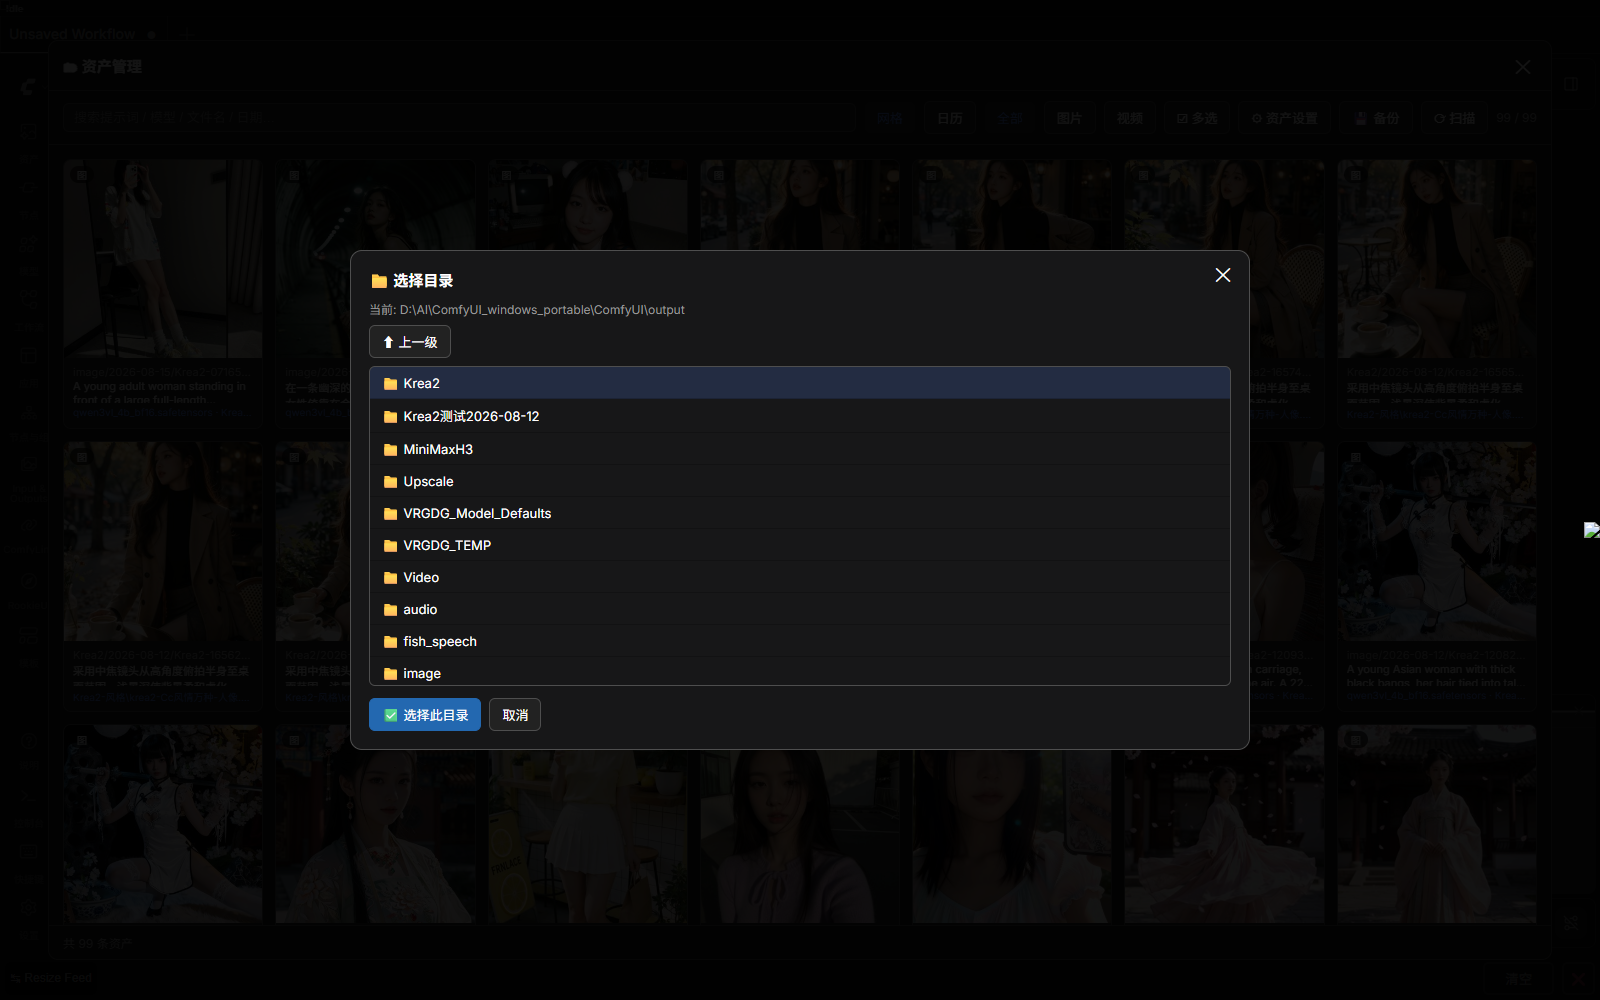
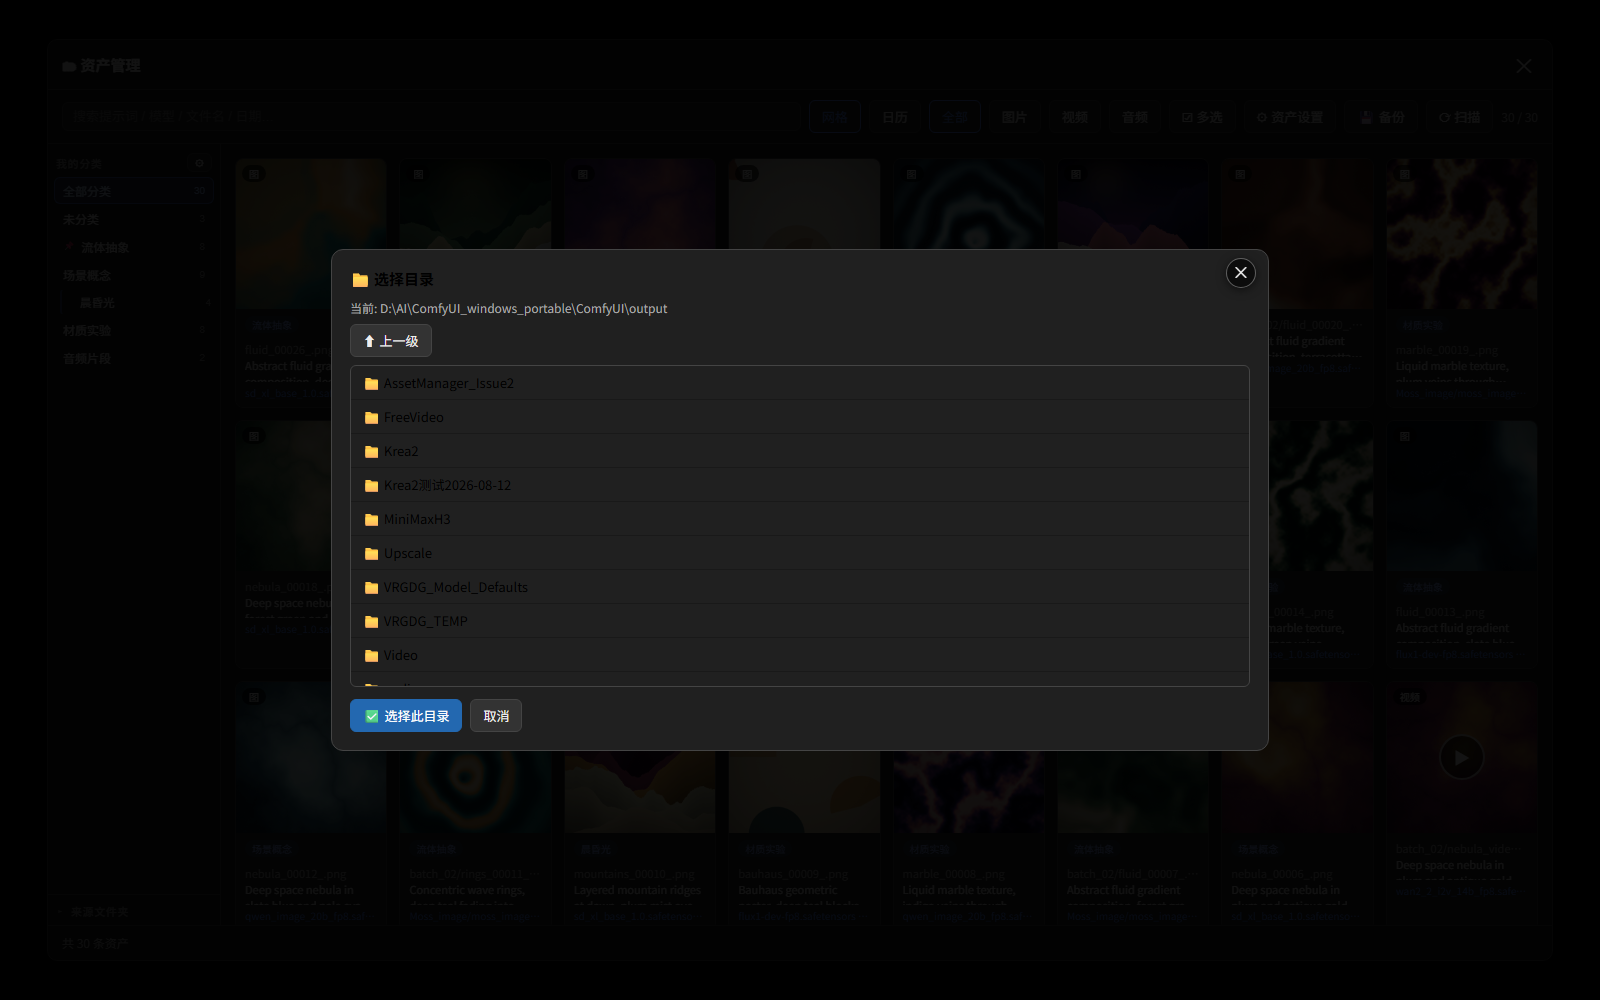
docs(readme): document the v1.0.12 security pass and refresh screenshots
- Security section: cross-origin write rejection, no absolute paths in error
  responses, literal media-path validation, scan resilience, state-file path
  re-validation, category order/pin input checks, and the new regression
  suite (47 tests / 122 total).
- Screenshots retaken against a generated demo archive (procedural abstract
  art) so no personal media is published: grid, calendar, category manager
  (pin + up/down), settings, directory picker, preview.
- Add a sixth shot for the category manager and note that the screenshots use
  demo data.

Changed region(s): [[0.1875, 0.248, 0.8125, 0.744], [0.7812, 0.589, 0.8125, 0.744], [0.9688, 0.527, 1.0, 0.558]]

diff --git a/README.md b/README.md
@@ -44,13 +44,19 @@ An in-panel **asset manager** for ComfyUI that auto-archives every image, video,
 
 ## 📸 Screenshots · 界面预览
 
+> 截图取自演示归档（程序化生成的抽象画），只用于展示界面。
+
 | Grid · 网格视图 | Calendar · 日历视图 |
 |---|---|
 | ![Grid](assets/screenshots/01-grid.png) | ![Calendar](assets/screenshots/02-calendar.png) |
 
-| Preview · 预览详情 | Settings · 资产设置 | Browse · 目录点选 |
-|---|---|---|
-| ![Preview](assets/screenshots/03-preview.png) | ![Settings](assets/screenshots/04-settings.png) | ![Browse](assets/screenshots/05-browse-dir.png) |
+| Category manager · 分类管理（置顶 / ↑↓ 排序） | Settings · 资产设置 |
+|---|---|
+| ![Categories](assets/screenshots/06-categories.png) | ![Settings](assets/screenshots/04-settings.png) |
+
+| Browse · 目录点选 | Preview · 预览详情 |
+|---|---|
+| ![Browse](assets/screenshots/05-browse-dir.png) | ![Preview](assets/screenshots/03-preview.png) |
 
 ## 📦 Installation · 安装
 
@@ -209,6 +215,25 @@ carry their prompt.
   前端一律用 `textContent` 渲染，不存在把分类名当 HTML 执行的路径。
   `run_ids` 会逐个 `resolve()` 并校验解析后仍在归档目录内，`../`、绝对路径、
   软链接目录一律跳过并回报 `invalid path`；删除分类只把记录改回未分类，不删任何文件。
+- **跨站写请求拦截**（v1.0.12 起）：所有会改动磁盘的接口（改配置 / 改输出目录 / 删除 /
+  批量删除 / 建改分类 / 移分类 / 扫描 / 备份）都会校验 `Origin`。带 `http(s)` 来源且与
+  `Host` 不一致的请求直接 **403**，挡住"随便打开一个网页就能让你的本机 ComfyUI 删文件"
+  这一类 CSRF；不带 `Origin`（curl、脚本、同源导航）和 `Origin: null` 照常放行。
+- **报错不回显绝对路径**（v1.0.12 起）：所有接口的异常文本都换成固定文案
+  （`Category operation failed` / `Assign failed` / `Cannot create <key>` /
+  `Cannot read directory` / `Scan failed`），不再把 `OSError` 的原始字符串
+  （里面通常带完整盘符路径）返回给前端。
+- **媒体路径按字面形状校验**（v1.0.12 起）：`/asset/file` 在 `resolve()` 之前先按字面
+  检查是不是恰好三段 `<日期>/<任务>/<文件名>`，任何一段为空、`.` 或 `..` 直接拒绝。
+  这样 `2026-10-31/run-1/../run-1/a.png` 这类"解析后仍在目录内"的路径也进不来。
+- **扫描不会因为一个坏目录整批失败**（v1.0.12 起）：归档时日期目录被同名文件占位、
+  磁盘写满等 I/O 错误只会跳过当前这一个文件（并清理掉写了一半的目录），不再让整次扫描
+  抛异常、接口 500。
+- **状态文件不当作可信输入**（v1.0.12 起）：去重时从 `archive_state.json` 读到的历史路径
+  必须恰好两段且 `resolve()` 后仍在归档目录内、不是软链接，否则丢弃该条记录。
+- **分类顺序参数同样走校验**：`direction` 只接受 `up` / `down`，`pinned` 必须是真正的
+  布尔值（`"yes"`、`1`、`"true"` 一律拒绝）；读取 `categories.json` 时不再按上限截断，
+  手工改大的文件不会被下一次保存"静默删掉"。
 
 No external process is ever launched: video metadata and thumbnails are handled in-process with
 PyAV, and the codebase contains no `subprocess` / `os.system` / `eval` / `exec`. Configuration keys
@@ -216,7 +241,14 @@ are written through a strict allowlist, numeric options are range-checked, and a
 access is confined to the configured output / archive / backup roots. Since v1.0.6 the media route
 serves only manifest-listed files, the three roots are mutually non-overlapping, symlinks are
 skipped and re-validated after resolution, backups are written atomically to unique files, and
-directory browsing only reveals entries on the path to an allowed root.
+directory browsing only reveals entries on the path to an allowed root. Since v1.0.12 every mutating
+route rejects cross-origin `Origin` headers with 403, error responses never echo absolute paths, the
+media route validates the literal `<date>/<run>/<file>` shape before resolving, a single unwritable
+directory no longer aborts a whole scan, and paths read back from the state file are re-validated
+before use.
+
+回归测试：`tests/test_security.py` 覆盖上述全部输入面（47 个用例，含跨站 403、类型混淆、
+目录穿越、符号链接、超长路径、损坏状态文件）；完整用例集共 122 个，全部通过。
 
 ## 📄 License
 
